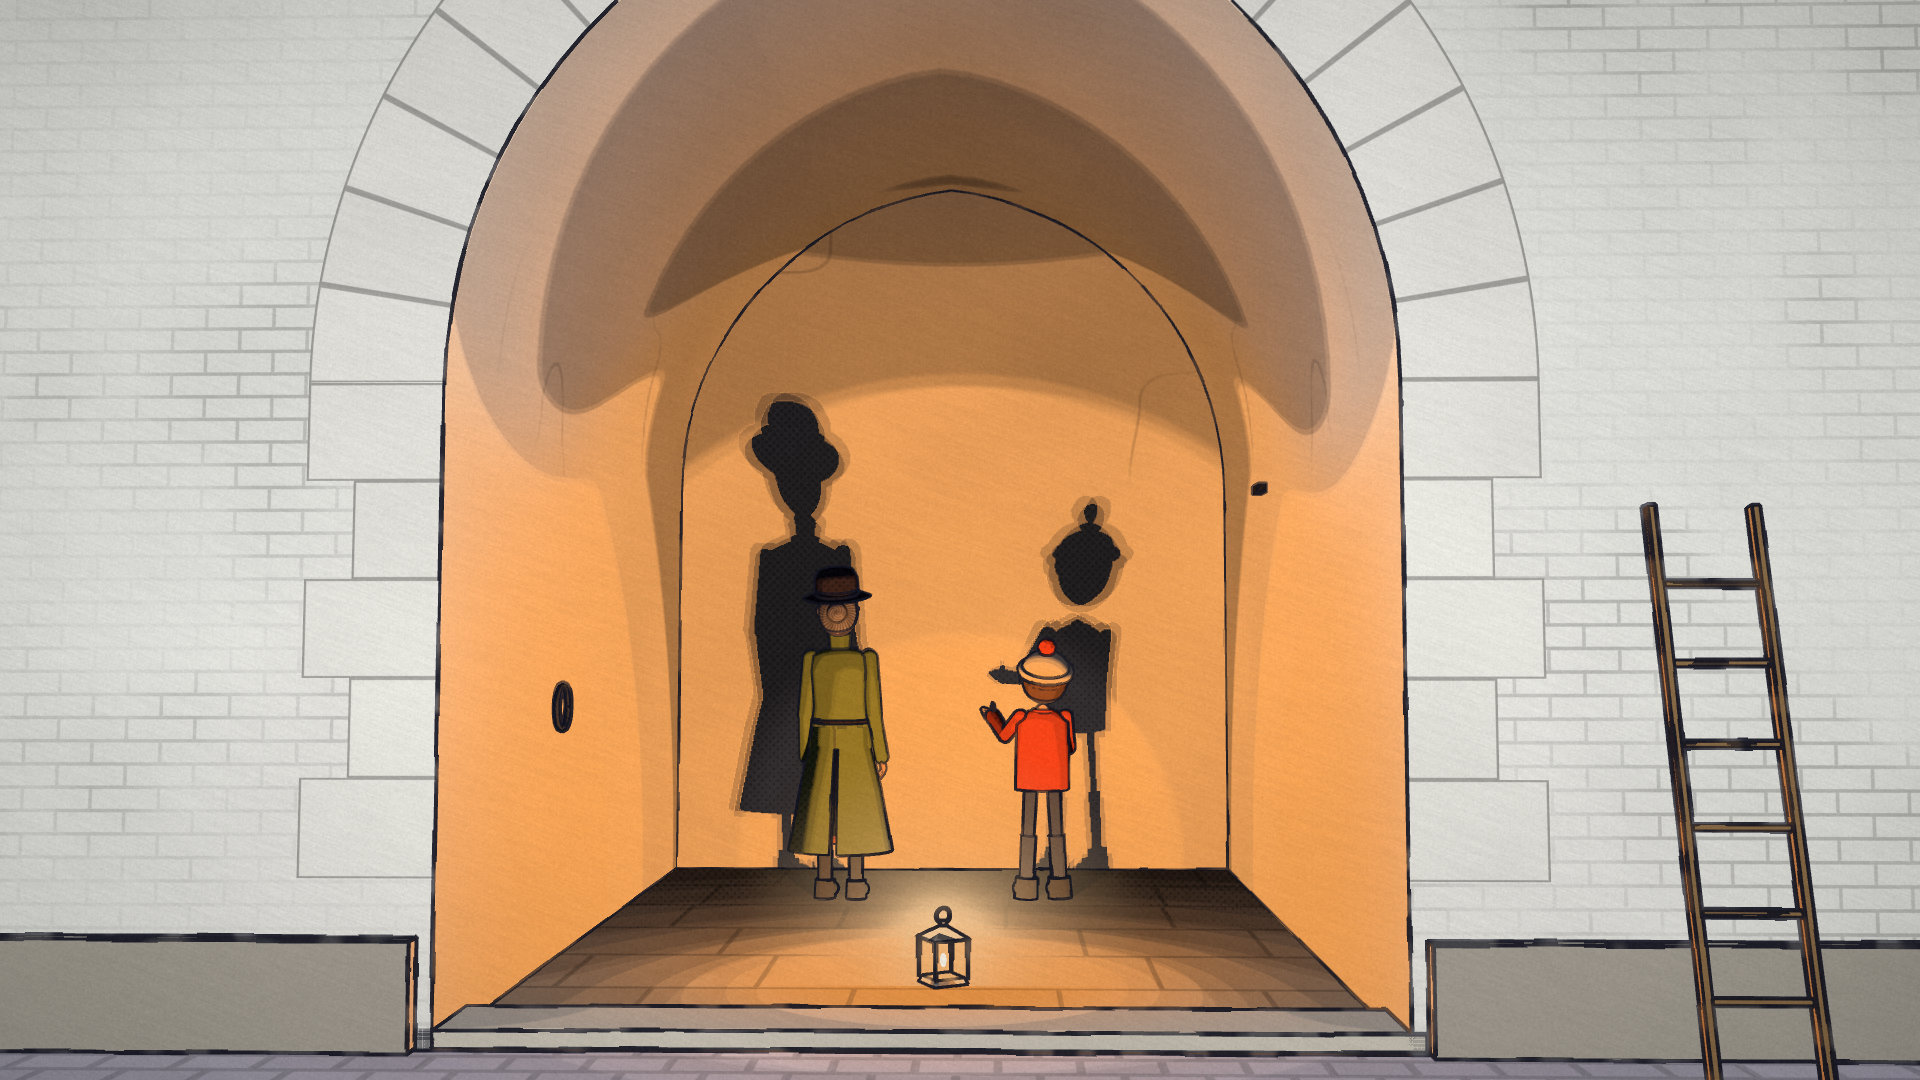
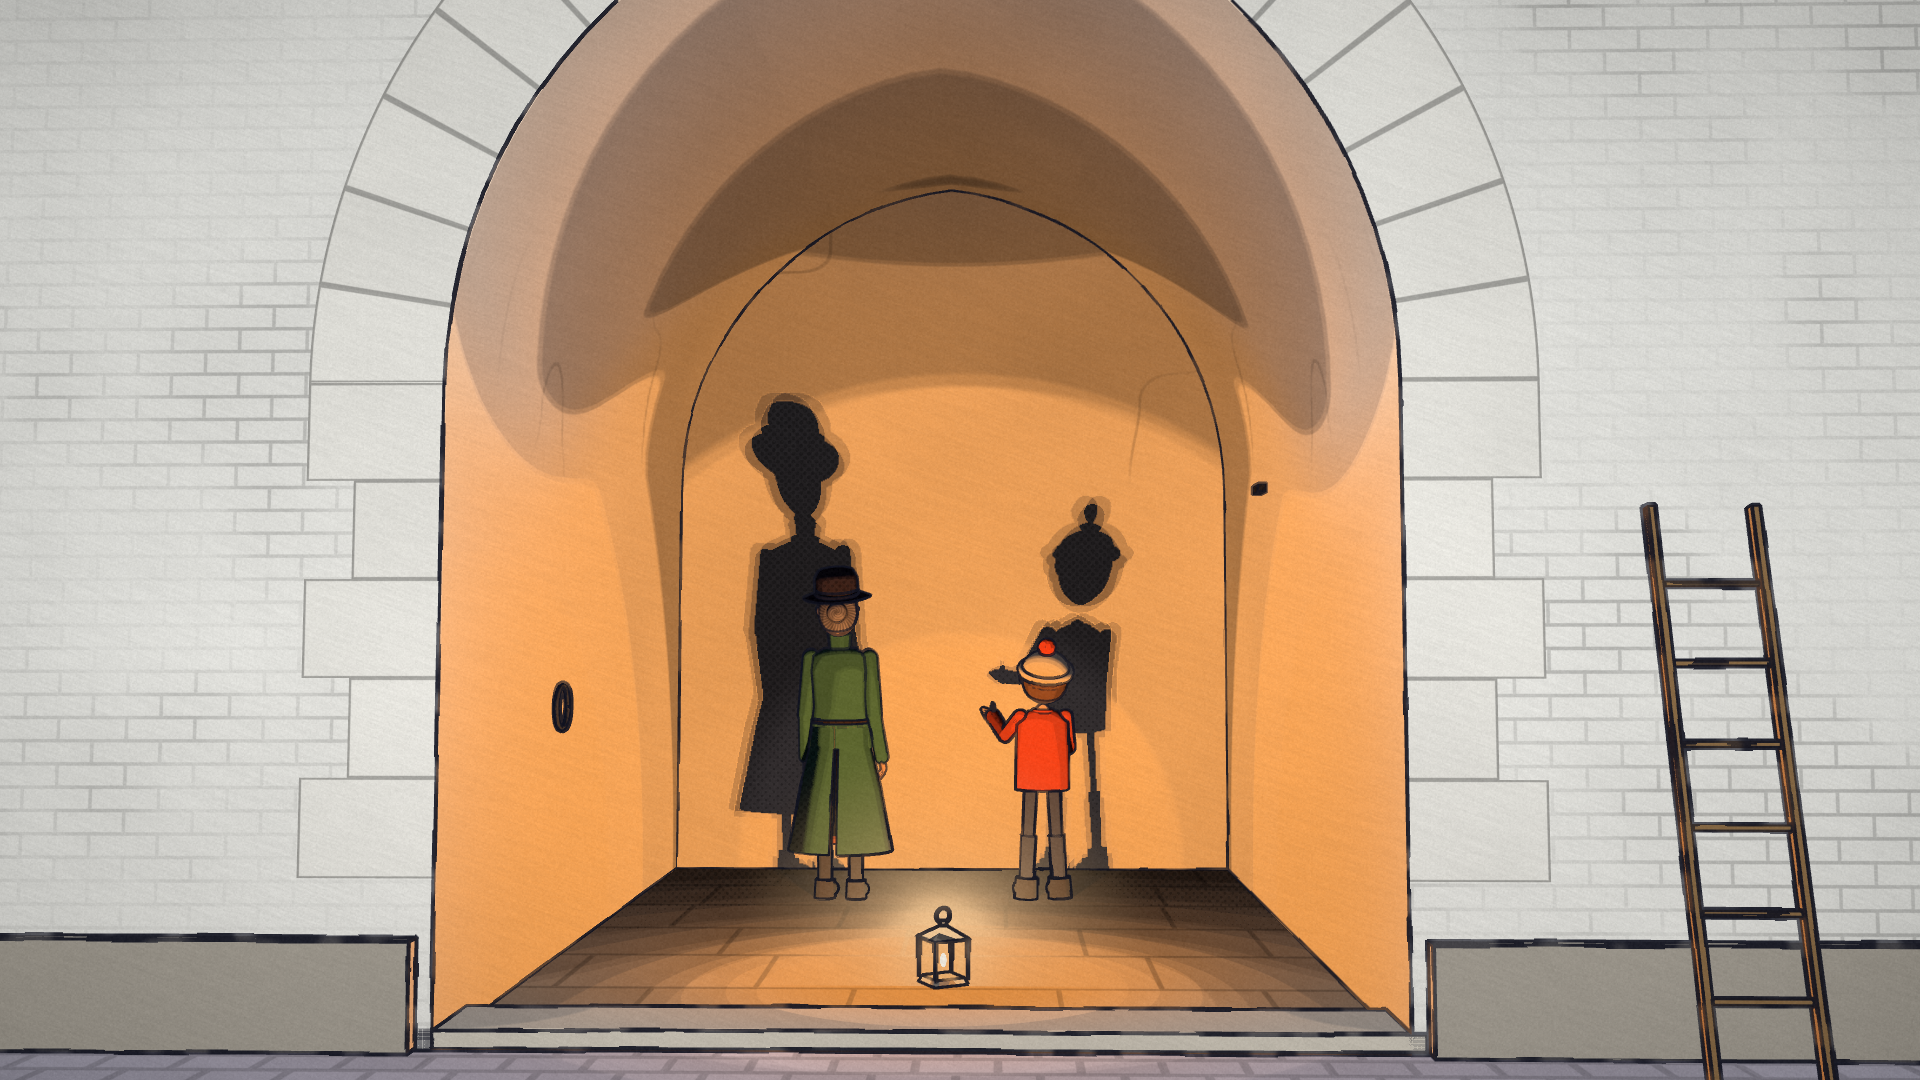
Cổng 3 hướng B: vá gáy Ida (đọc nhầm thành mặt), áo về xanh rêu, render lại s5
Claude-Session: https://claude.ai/code/session_01X6eCpU6XKMrVJ245roPvqM

Changed region(s): [[0.4062, 0.5806, 0.4688, 0.7944]]

diff --git a/design/cong3/dir-B/scene.js b/design/cong3/dir-B/scene.js
@@ -335,7 +335,7 @@ const flat = (g) => { const n = g.index ? g.toNonIndexed() : g; n.computeVertexN
 
 // ---------------------------------------------------------------- nhân vật: vật liệu tô phẳng ------------------------------------
 const CHAR_REMAP = {
-  '#3f5552': PAL.moss, '#6b4a3a': '#7a4a30', '#2f2826': '#2a2432', '#b9b3aa': '#8d8890', '#2a2320': '#2a2226', '#2e2a2b': '#2f2c36',
+  '#3f5552': '#34584c', '#6b4a3a': '#7a4a30', '#2f2826': '#2a2432', '#b9b3aa': '#8d8890', '#2a2320': '#2a2226', '#2e2a2b': '#2f2c36',
   '#8a4a3c': PAL.brick, '#d6c9ae': '#e2d6bc', '#a8483a': '#b8452f', '#3a3d48': '#343a58', '#2c2522': '#2b2427',
 };
 function charMatFn() {

diff --git a/design/cong3/dir-B/README.md b/design/cong3/dir-B/README.md
@@ -30,7 +30,7 @@ Tuỳ chọn gỡ lỗi qua `--args` (không dùng khi render chính thức): `{
 | Trắng lạnh ánh điện (nguồn tràn cảnh 5) | `#d9e3ef` |
 | Hổ phách: đèn khí / đèn lồng / kính / lõi lửa / quầng | `#ffa04a` / `#ffb366` / `#ffb04a` / `#fff1cc` / `#ff9a3a`, `#ffd29a` |
 | Nhấn 1 — đỏ gạch, **chỉ áo len Cas** | `#a2412f` (quả bông `#b8452f`) |
-| Nhấn 2 — xanh rêu, **chỉ áo khoác Ida** | `#58663c` |
+| Nhấn 2 — xanh rêu, **chỉ áo khoác Ida** | `#34584c` (gần model sheet `#3f5552`; bản trước `#58663c` bị đèn hổ phách nhuộm thành vàng ô-liu nên đã bỏ) |
 
 Đỏ gạch và xanh rêu không dùng ở kiến trúc (thành phố chỉ chàm – tím – xương – hổ phách) để hai nhân vật là hai điểm màu duy nhất.
 
@@ -48,7 +48,7 @@ Tuỳ chọn gỡ lỗi qua `--args` (không dùng khi render chính thức): `{
 | Khung | 32 mẫu, `out/` (load 5,8–6,6) | 8 mẫu, `out8/` (load 6,2–6,6) | 8 mẫu, lần đo trước (load 7–8,8) |
 |---|---|---|---|
 | s1_opening | 29,4 s | 10,8 s | 14,3 s |
-| s5_shadows | 21,4 s | 9,2 s | 9,9 s |
+| s5_shadows (bản sửa P, load 5,6) | 19,6 s | 8,7 s | 9,9 s (bản trước: 21,4 / 9,2) |
 | Tham chiếu: `model-sheet` cas_pose_half_raised, 8 mẫu | — | 2,3 s (đo ngay sau, cùng tải) | lúc máy nhẹ hơn: 1,5 s |
 
 Quy đổi theo tham chiếu đo cùng lúc: s1 ≈ 4,7×, s5 ≈ 4,0× trang model sheet. Ước lượng chạy tuần tự: **s1 ~5–7 s, s5 ~4–6 s ở 8 mẫu → vượt ngưỡng 2,5 s/khung khoảng 2–3 lần.** Pass cuối cho mỗi khung grain thêm: 0,3–0,4 s.
@@ -66,6 +66,10 @@ Cách hạ (chưa làm hết): (a) 4 mẫu là đủ cho hướng này (3 vị t
 - Quầng đèn khí các phố xa không bị mái che (tắt kiểm tra độ sâu) nên vài chấm "nổi" trên mái; chấp nhận như sáng loang trong sương, nhưng không đúng tuyệt đối.
 - Chấm lưới và giấy là mẫu tĩnh theo khung: khi máy quay chạy sẽ thành "lưới dính màn hình"; phải gắn vào không gian vật thể hoặc chỉ dùng ở shot tĩnh.
 - Viền mực ở dải chân trời xa và mái xa vẫn hơi nhiều nét nhỏ.
+
+**Sửa theo nhận xét của P (s5, lần 2):**
+- *"Ida và Cas quay mặt về máy"*: đã kiểm, hai người **đã quay lưng** từ đầu (`root.rotation.y ≈ π`, mặt nhân vật là +z, máy ở +z nhìn về −z). Bằng chứng: `check/s5_tu_phia_may_quay_lung.png` (từ phía máy: thấy xẻ tà sau áo, búi tóc, gáy) và `check/s5_tu_phia_vach_thay_mat.png` (máy đặt sát vách nhìn ra: thấy mặt, mũi, mắt). Cái gây hiểu nhầm là **gáy Ida**: rig chung để da ở nửa sau sọ, búi tóc tròn sáng ở giữa nên đọc như khuôn mặt. Đã thêm lớp tóc phủ nửa sau sọ, màu tóc tối hơn, nét mực toả từ búi và vòng xoắn trong búi. Không đổi góc xoay, nên hình học bóng không đổi: phóng đại 1,5×, key : tràn đo lại **≈ 34 : 1**. Nếu ở cỡ nhỏ vẫn đọc nhầm, bước tiếp theo nên là sửa ở model sheet (tóc phủ gáy), không phải ở hướng mỹ thuật.
+- Áo Ida đưa về xanh rêu `#34584c`, vẫn là mảng tối trung bình; dưới đèn hổ phách lên màu xanh rêu ấm, nhận ra được là cùng nhân vật.
 
 **Chưa đúng brief / luật thế giới:**
 - Cảnh 5, **máy quay lùi xa hơn brief**: brief ghi sau đèn lồng ~1,5 m (tức 0,5 m ngoài miệng vòm); ở vị trí đó mép khung nằm trọn trong hốc (FOV ngang 66° chỉ phủ ±0,3 m ở miệng vòm), không thể thấy "phố trắng ở mép khung". Tôi đặt máy 1,35 m cao, **6,2 m sau đèn lồng (5,2 m ngoài miệng)**, FOV dọc 38°, ngước 3,5°: thấy vòm, mặt tiền trắng hai bên, dải đá phố dưới đáy. Cần chủ dự án chọn: giữ khung này, hay đổi hốc/đèn để đúng số đo brief.
